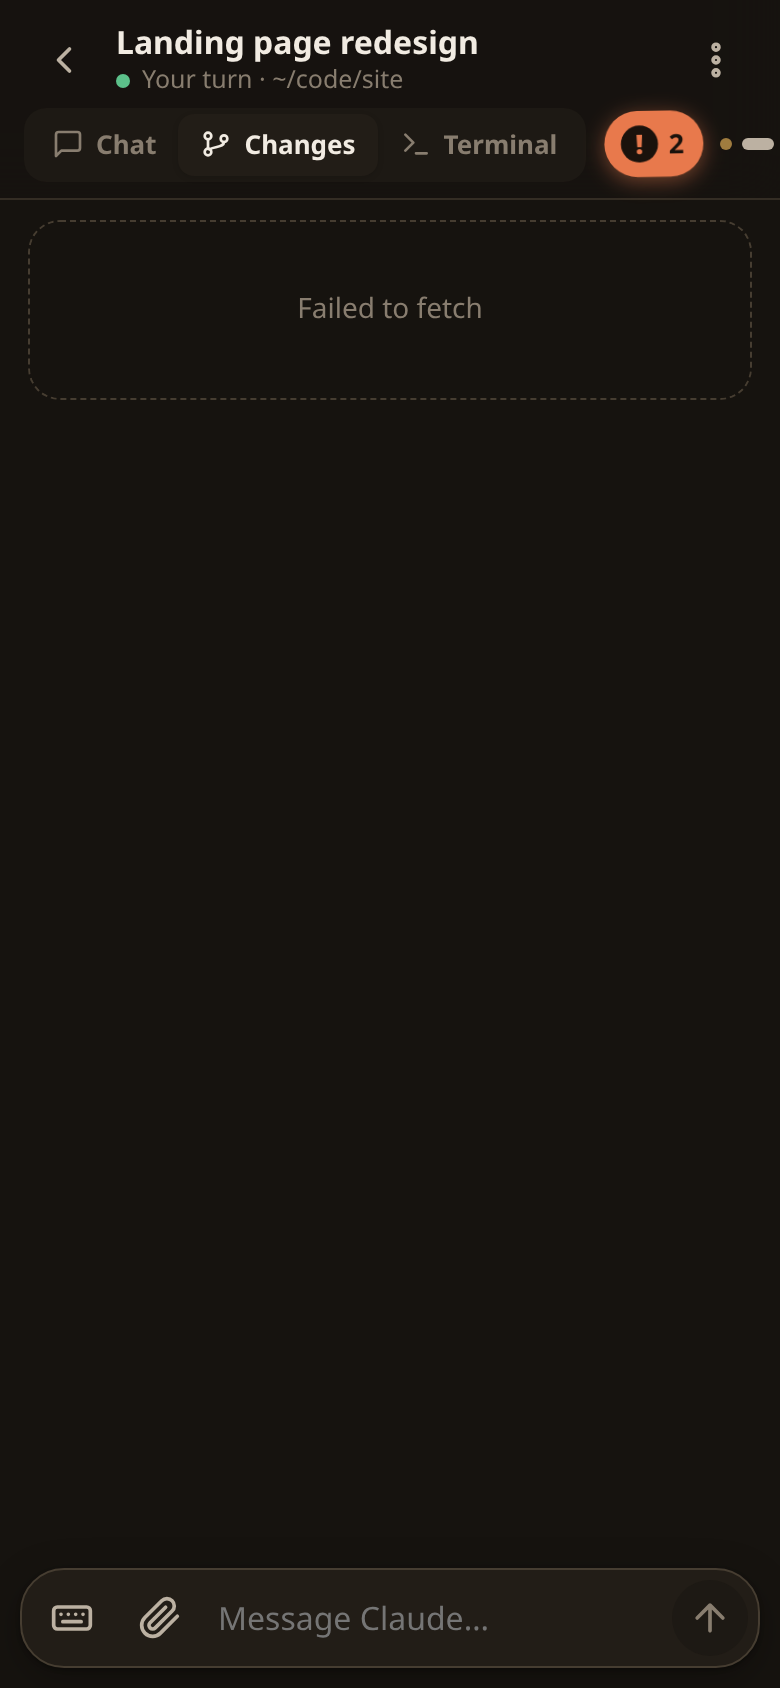
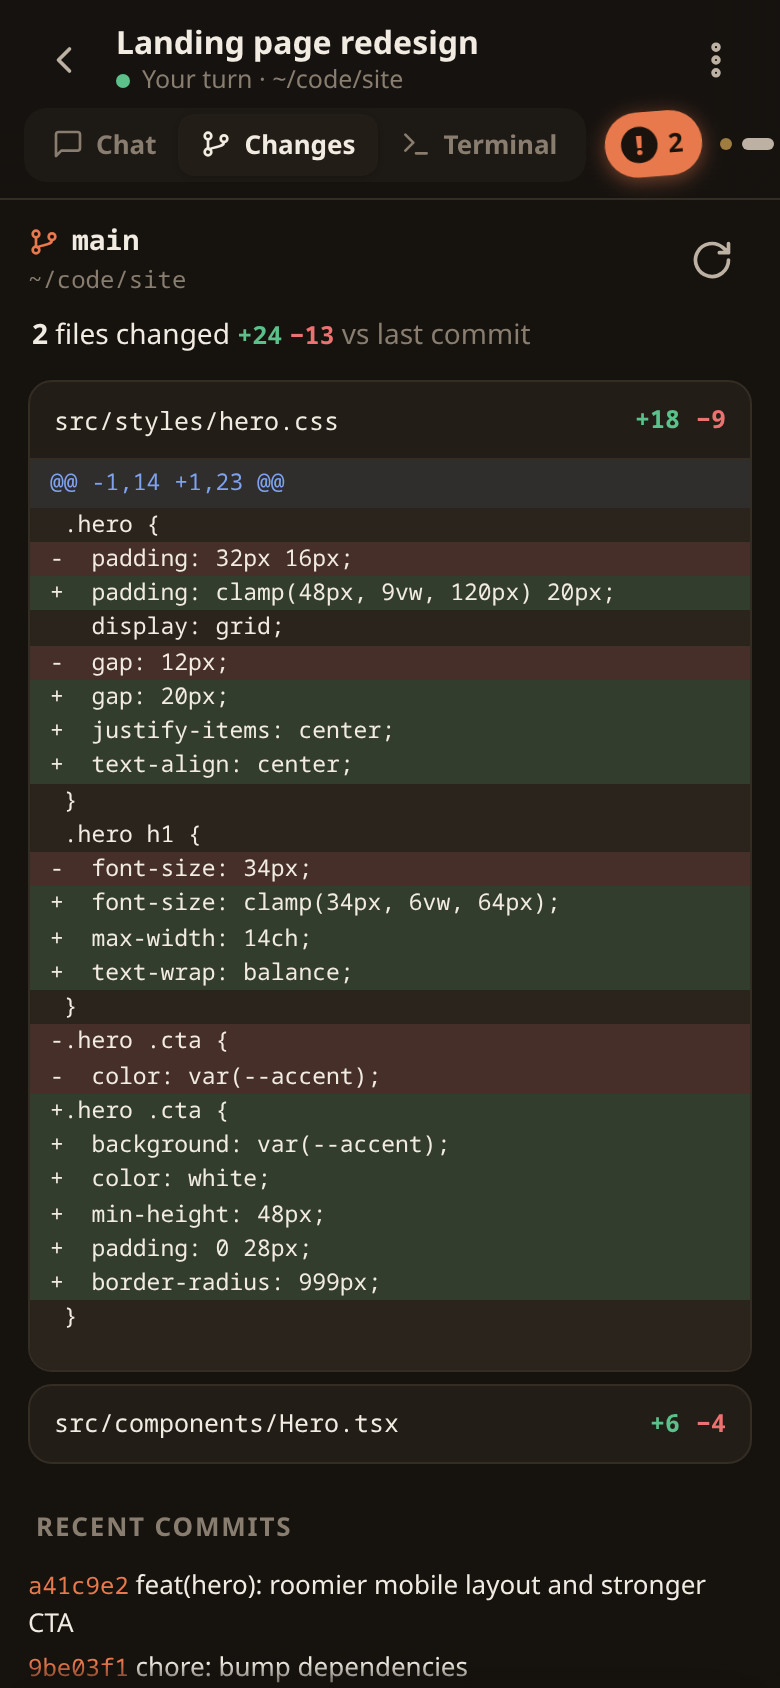
README screenshot gallery from demo data; demo-mode notes in AGENTS.md

diff --git a/README.md b/README.md
@@ -11,6 +11,18 @@ push notifications, which travel end-to-end encrypted through your phone browser
 
 It's a web app (PWA) that you add to your home screen, not an app store download.
 
+<p align="center">
+  <img src="docs/screenshots/home.png" width="250" alt="Sessions list: what needs you, what's working, pending reviews">
+  <img src="docs/screenshots/permission.png" width="250" alt="A session asking for permission, answered with one tap">
+  <img src="docs/screenshots/chat.png" width="250" alt="Live chat with a queued message and a Send now button">
+</p>
+<p align="center">
+  <img src="docs/screenshots/changes.png" width="250" alt="Changes tab: the git diff of the session's repo">
+  <img src="docs/screenshots/new-session.png" width="250" alt="Start a session with model, effort and permission mode">
+  <img src="docs/screenshots/review.png" width="250" alt="Image review: approve, request changes or reject">
+</p>
+<p align="center"><sub>Screenshots use made-up demo data (<code>tools/demo/server.ts</code>).</sub></p>
+
 > [!WARNING]
 > **Agents Away is meant for a trusted private network: your home LAN or your own VPN. Securing that
 > network is up to you.**

diff --git a/AGENTS.md b/AGENTS.md
@@ -80,6 +80,11 @@ systemctl --user stop agents-away && bun src/server.ts
   `agents-away pair` (`/pair?t=…`); for curl, open one with `-c jar` and reuse the jar with `-b jar`
   (plus `--cacert ~/.config/agents-away/certs/ca.crt` and the `x-away: 1` header on POSTs). Remove test
   devices afterwards (⚙ → Sign-in, or `POST /api/devices/:id/signout`).
+- **Demo mode:** `bun tools/demo/server.ts` serves the real `public/` app on http://localhost:7450 with
+  made-up sessions, chats, a diff and reviews (no real data, actions are no-ops). Use it for UI work and
+  for the README screenshots: with it running, `bun add --no-save playwright-core` then
+  `CHROME=<chromium path> bun tools/screenshots.ts` rewrites `docs/screenshots/*.png`. Update the demo
+  data when a feature should appear in the screenshots.
 - The client reloads itself after a server restart (build id), so a restart is all a phone needs.
 - POST endpoints require the `x-away: 1` header (CSRF guard). Local API calls need `x-away-token`.
 - Don't break running sessions: restarting the service must never kill the `agents-away` tmux server
